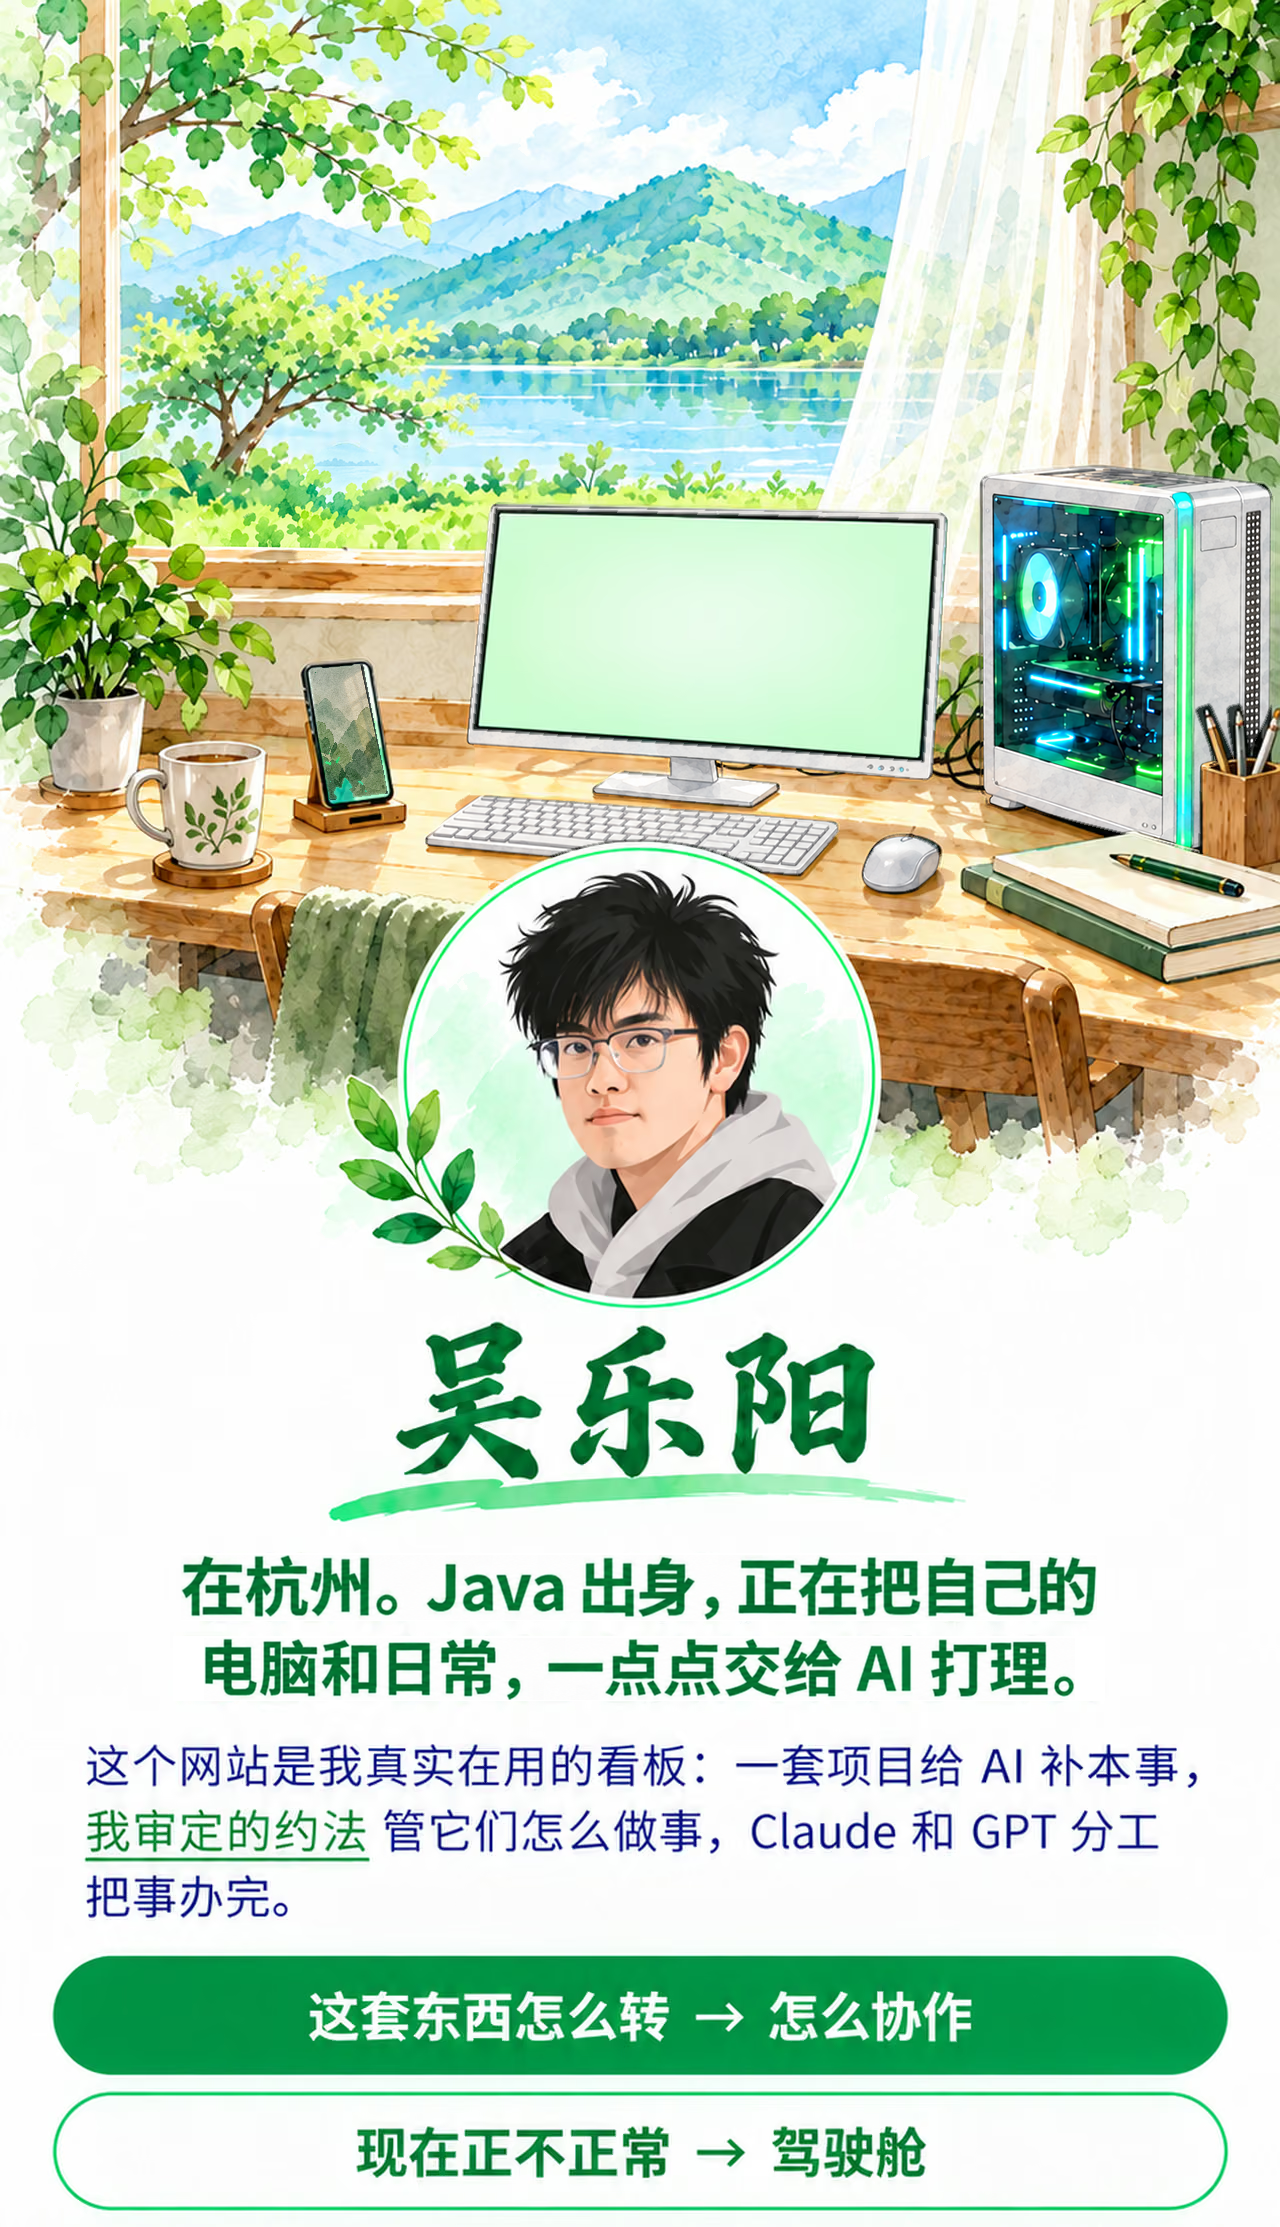
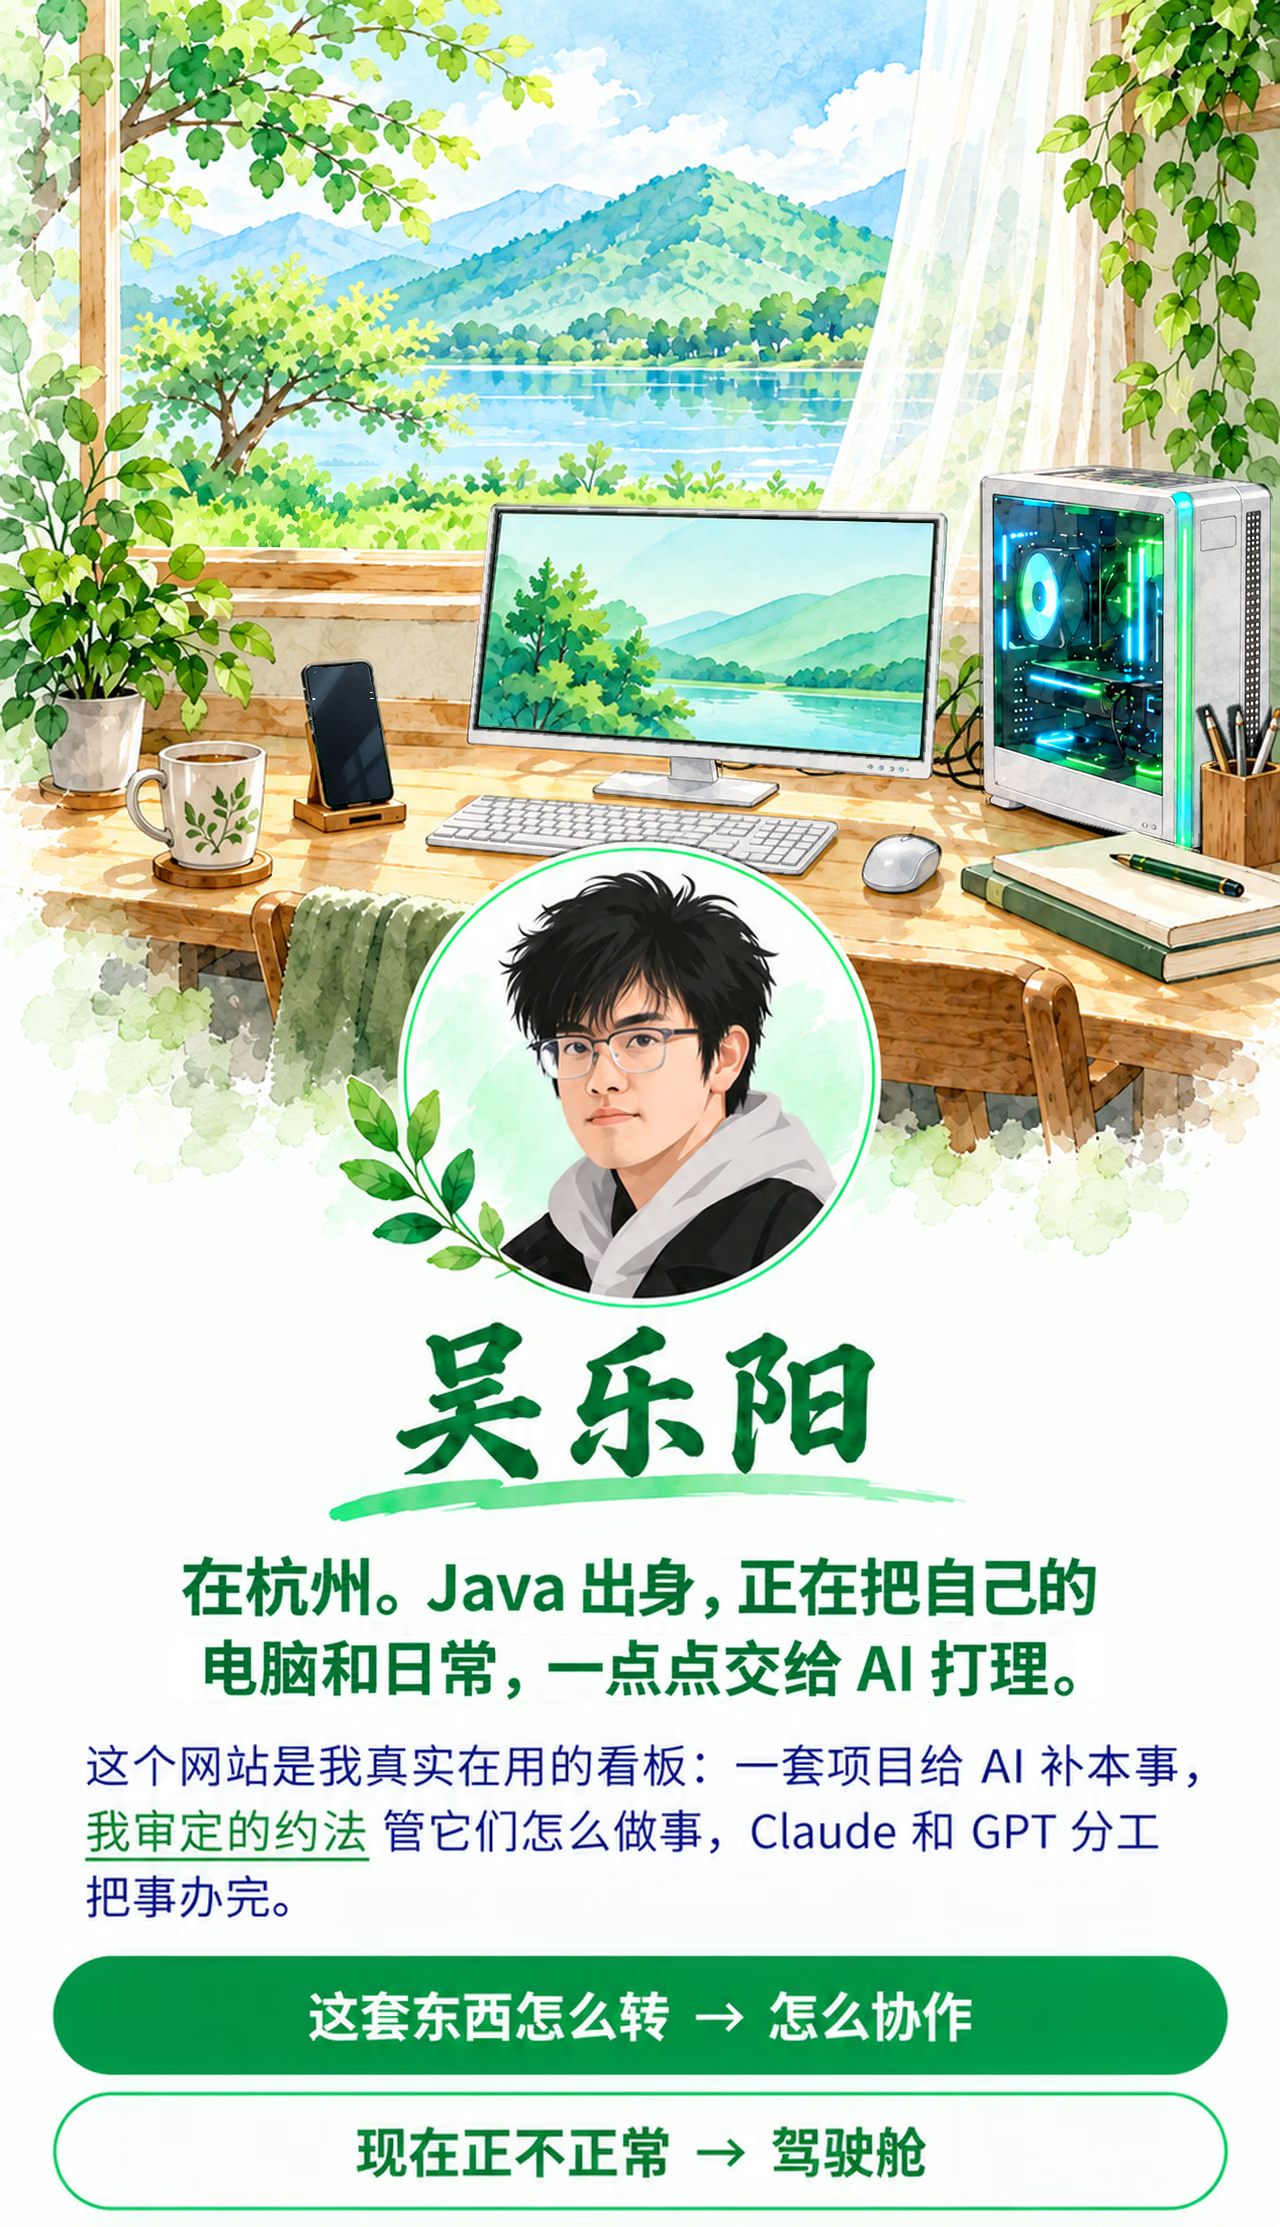
Unify home monitor wallpaper and keep phone glass dark

Changed region(s): [[0.375, 0.2169, 0.75, 0.3408], [0.2188, 0.2789, 0.3125, 0.3718]]

diff --git a/site-astro/public/_home-cockpit/time-labels.css b/site-astro/public/_home-cockpit/time-labels.css
@@ -1,5 +1,8 @@
 /* 首次布局：此段同步嵌入首页 head；原按钮和点击逻辑照旧。 */
 html[data-home-opening="pending"] #home-01 { background: #fff; }
+/* 等待读取或读不到时，也在静态接替帧隐藏时钟；读到后沿原状态恢复。 */
+#home-01 .hero-live-layer [data-hl="screen"].off .time,
+#home-01 .hero-live-layer [data-hl="screen"].off .date { display: none; }
 #home-01 .home-time-controls {
   top: auto !important;
   bottom: 2.4% !important;

diff --git a/site-astro/tools/home_firstpaint.py b/site-astro/tools/home_firstpaint.py
@@ -51,9 +51,11 @@ def adjust_home(html, source, public):
     if not config:
         raise ValueError('首页引擎配置入口不明')
     patch('new URL("' + config[1] + '"', 'new URL("/_shared/home-living/' + config[1] + '"')
-    # 手机屏幕只保留柔和低亮度；夜里随房间曝光变暗，避免贴上白天画面的亮块。
-    patch('col = mix(col, raw, phone*0.85);',
-          'col = mix(col, raw*mix(1.0,0.38,u_night), phone*0.85);')
+    patch('col = mix(col, raw, phone*0.85);', '')
+    patch('col = mix(col, raw*(1.0+0.05*u_night), scr*u_scrOn);', 'col = mix(col, raw*mix(1.0,0.55,u_night), scr*u_scrOn);')
+    patch('float warn = step(0.5, u_pcMode)*live;', 'float warn = 0.0;')
+    patch('vec3 rgb = mix(vec3(raw.r, top, top*0.45), vec3(raw.r, top*0.62, top), wave);', 'vec3 rgb = vec3(raw.r, top, top*0.45);')
+    patch('vec3 neonCol = mix(mix(vec3(0.15,1.0,0.45), vec3(0.15,0.62,1.0), wave), vec3(1.0,0.72,0.20), warn);', 'vec3 neonCol = vec3(0.15,1.0,0.45);')
     # 已开始的开场沿原时段自然结束；只有尚未开画的回退才从原图接手。
     patch('let Ct=!1,le=!1,r0="loading",c0=0;',
           'let Ct=!1,le=!1,r0="loading",c0=0,_homeLiveAt=Infinity,'

diff --git a/sources/home-white-gear/README.md b/sources/home-white-gear/README.md
@@ -1,8 +1,8 @@
 # 首页白色外设与手机屏幕
 
-这里保存局部合成后的无损输入。横版为 2880×1621，竖版为 1280×2227；四件外设采用最初白色小样的原画，手机屏幕采用内置生图结果，再只贴回原来的显示区域。头像、文字、桌面、植物、窗外和小鸟的原图像素不在编辑范围内。
+这里保存局部合成后的无损输入。横版为 2880×1621，竖版为 1280×2227；四件外设采用最初白色小样的原画，手机改为内置生图制作的熄屏玻璃，只贴回原来的显示区域；横竖显示器共用原横版水彩壁纸。头像、文字、桌面、植物、窗外和小鸟的原图像素不在编辑范围内。
 
-`mask-h.png`、`mask-v.png` 是静态图的允许区域，`phone-mask-h.png`、`phone-mask-v.png` 是动效底图的允许区域。边缘在区域内羽化，区域外 alpha 为零。`masks.json` 留下原图坐标；`pixel-proof.json` 区分无损输入的逐像素比较与原编码的逐字节复现。正常有损编码后的像素差不冒充无损输入的零差。
+`mask-h/v.png` 是静态图的允许区域，`plate-mask-h/v.png` 是动效底图的允许区域，`phone-mask-h/v.png` 单独保留手机玻璃边界。边缘在区域内羽化，区域外 alpha 为零。`masks.json` 留下原图坐标；`pixel-proof.json` 区分无损输入的逐像素比较与原编码的逐字节复现。正常有损编码后的像素差不冒充无损输入的零差。
 
 `master-h/v.png` 用于原尺寸静态图；四张 `plate-*.png` 保留原有含鸟/无鸟边界。1920 和横版 fallback 从 `native-h.png` 的 1672×941 原输入生成，竖版 fallback 从 `native-v-fallback.png` 的 941×1637 原输入生成，避免先放大整张原画又缩小。所有输入只在指定局部改动；字体与其余原图保留原来的取样链。
 
@@ -14,4 +14,4 @@ python tools/retain_home_cockpit.py <候选站构建目录>
 npm run build
 ```
 
-接入脚本先原样复制候选站依赖，再运行 `build.py` 生成五张静态图、四张动效底图及新指纹引用；未改的资源保持原字节。AVIF、WebP 和两段 fallback 配方均沿用 `sources/signature/assets-manifest.json` 的现役参数。屏幕四角、风扇中心、机箱范围和鸟的位置保持原配置。手机夜间曝光由 `home_firstpaint.py` 在原着色器的手机分支内控制，不改其他区域的时段光线。
+接入脚本先原样复制候选站依赖，再运行 `build.py` 生成五张静态图、四张动效底图及新指纹引用；未改的资源保持原字节。AVIF、WebP 和两段 fallback 配方均沿用 `sources/signature/assets-manifest.json` 的现役参数。屏幕四角、风扇中心、机箱范围和鸟的位置保持原配置。`home_firstpaint.py` 移除手机保亮，让暗玻璃随房间夜色变化；显示器夜间亮度为白天的 0.55，灯光恒绿，警告仍以屏幕文字呈现。
